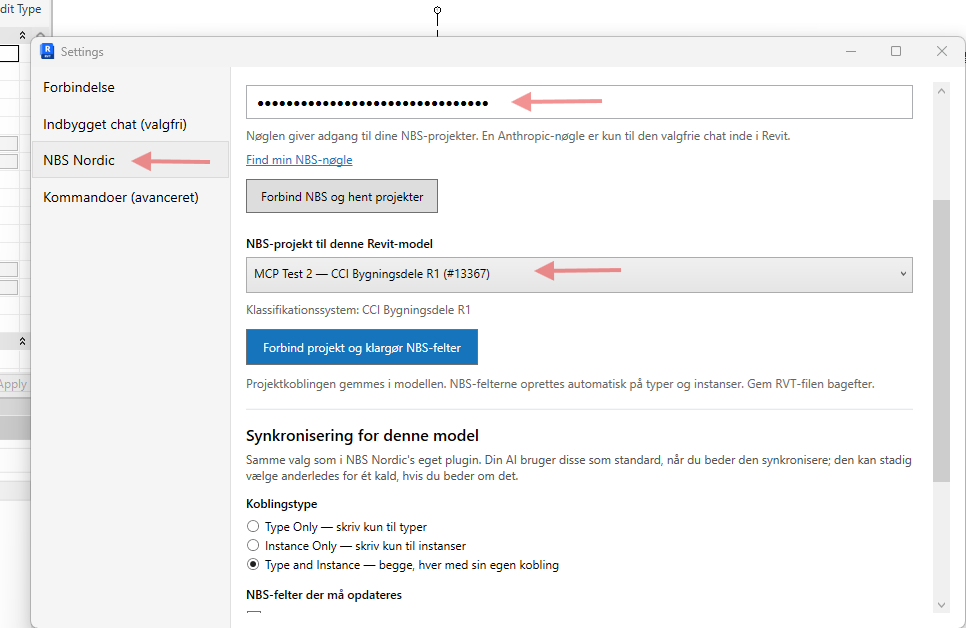
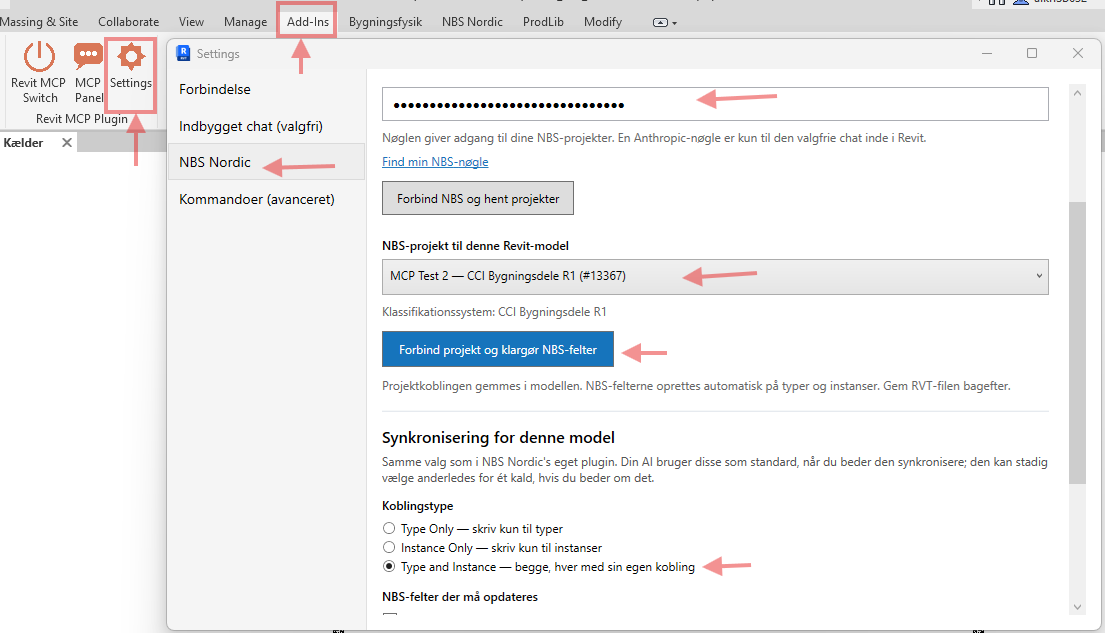
Improve NBS API setup guide

diff --git a/src/styles/global.css b/src/styles/global.css
@@ -1432,9 +1432,9 @@ p {
 
 .plugin-layout {
   display: grid;
-  grid-template-columns: minmax(260px, 320px) minmax(0, 1fr);
+  grid-template-columns: minmax(260px, 300px) minmax(0, 1fr);
   gap: 1.25rem;
-  width: min(1180px, 100%);
+  width: min(1540px, 100%);
   margin-inline: auto;
   align-items: start;
 }
@@ -1499,9 +1499,18 @@ p {
 
 .plugin-section {
   display: grid;
-  grid-template-columns: minmax(0, 0.92fr) minmax(280px, 0.78fr);
   gap: 1rem;
   padding: clamp(1rem, 3vw, 1.4rem);
+}
+
+.plugin-section__copy {
+  max-width: 920px;
+}
+
+.plugin-section--nbs {
+  background:
+    linear-gradient(135deg, rgba(70, 194, 168, 0.14), transparent 48%),
+    rgba(255, 255, 255, 0.92);
 }
 
 .plugin-section--warning {
@@ -1526,6 +1535,7 @@ p {
 
 .plugin-shot img,
 .plugin-architecture img {
+  display: block;
   width: 100%;
   border: 1px solid var(--line);
   border-radius: var(--radius);
@@ -1533,7 +1543,7 @@ p {
 }
 
 .plugin-shot img {
-  max-height: 360px;
+  max-height: none;
   object-fit: contain;
 }
 
@@ -1542,6 +1552,48 @@ p {
   color: var(--muted);
   font-size: 0.86rem;
   font-weight: 700;
+}
+
+.api-steps {
+  display: grid;
+  gap: 0.55rem;
+  margin: 1rem 0;
+  padding: 0;
+  list-style: none;
+  counter-reset: api-step;
+}
+
+.api-steps li {
+  position: relative;
+  counter-increment: api-step;
+  padding: 0.1rem 0 0.1rem 2.35rem;
+  color: var(--ink);
+  font-weight: 750;
+}
+
+.api-steps li::before {
+  content: counter(api-step);
+  position: absolute;
+  inset-block-start: 0;
+  inset-inline-start: 0;
+  display: grid;
+  width: 1.7rem;
+  height: 1.7rem;
+  place-items: center;
+  border-radius: 999px;
+  background: rgba(70, 194, 168, 0.22);
+  color: var(--navy);
+  font-size: 0.82rem;
+  font-weight: 900;
+}
+
+.api-note {
+  border-inline-start: 4px solid var(--mint);
+  border-radius: calc(var(--radius) - 0.2rem);
+  background: rgba(70, 194, 168, 0.1);
+  color: var(--navy);
+  padding: 0.8rem 0.95rem;
+  font-weight: 750;
 }
 
 .plugin-diagram {
